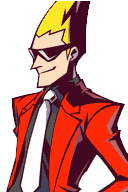
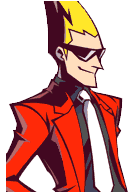
flip images

diff --git a/src/room5.ts b/src/room5.ts
@@ -17,7 +17,7 @@ export function CreateRoom5() : void{
             height: 192,
             sourceWidth: 128,
             sourceHeight: 192,
-            positionX: "-15%"
+            positionX: "-17%"
         },
         rightPortrait: {
             width: 128,
